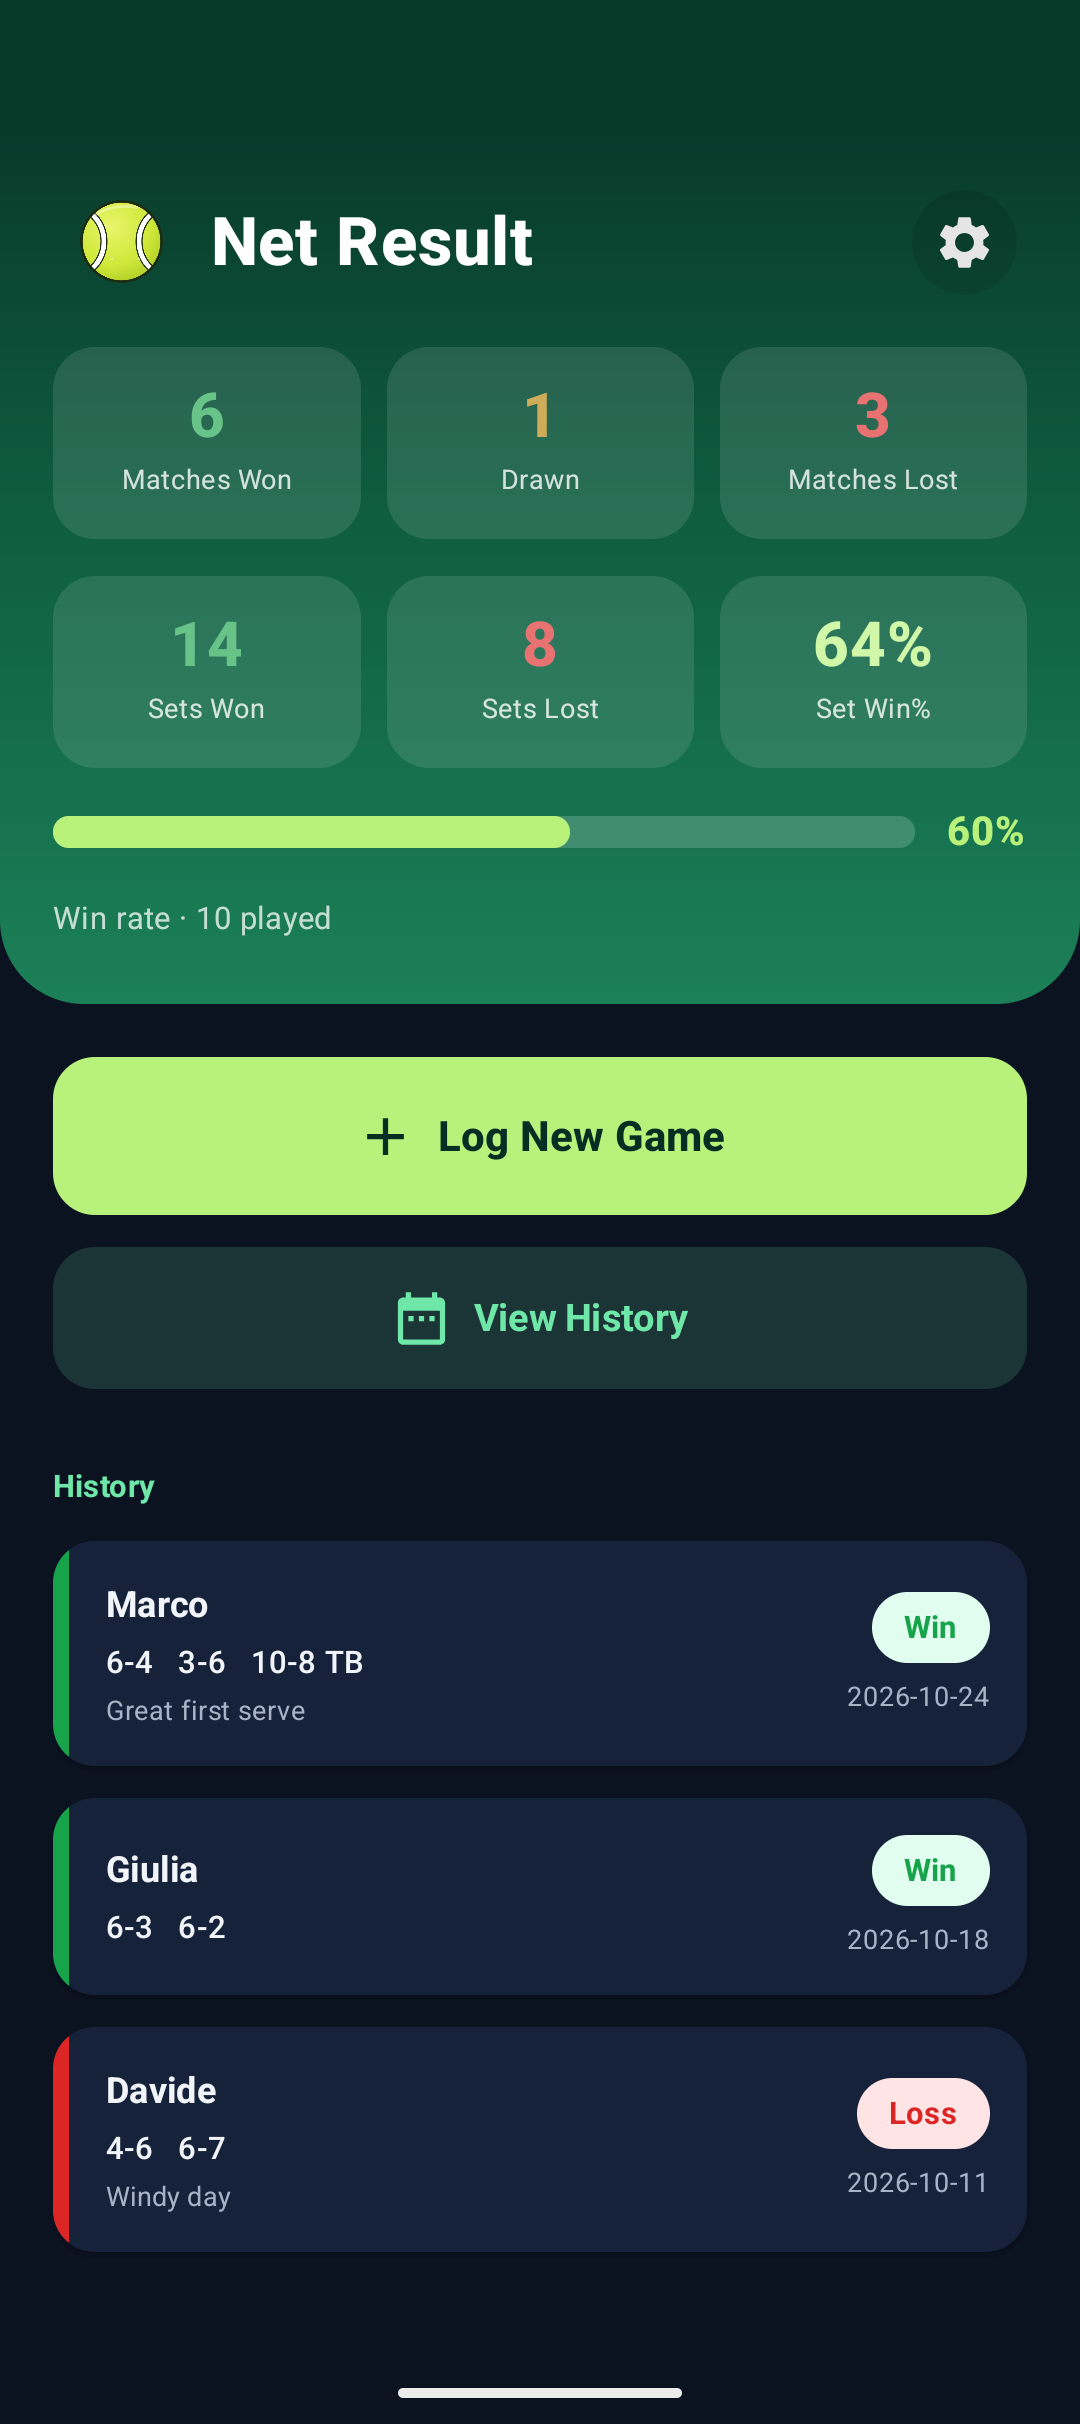
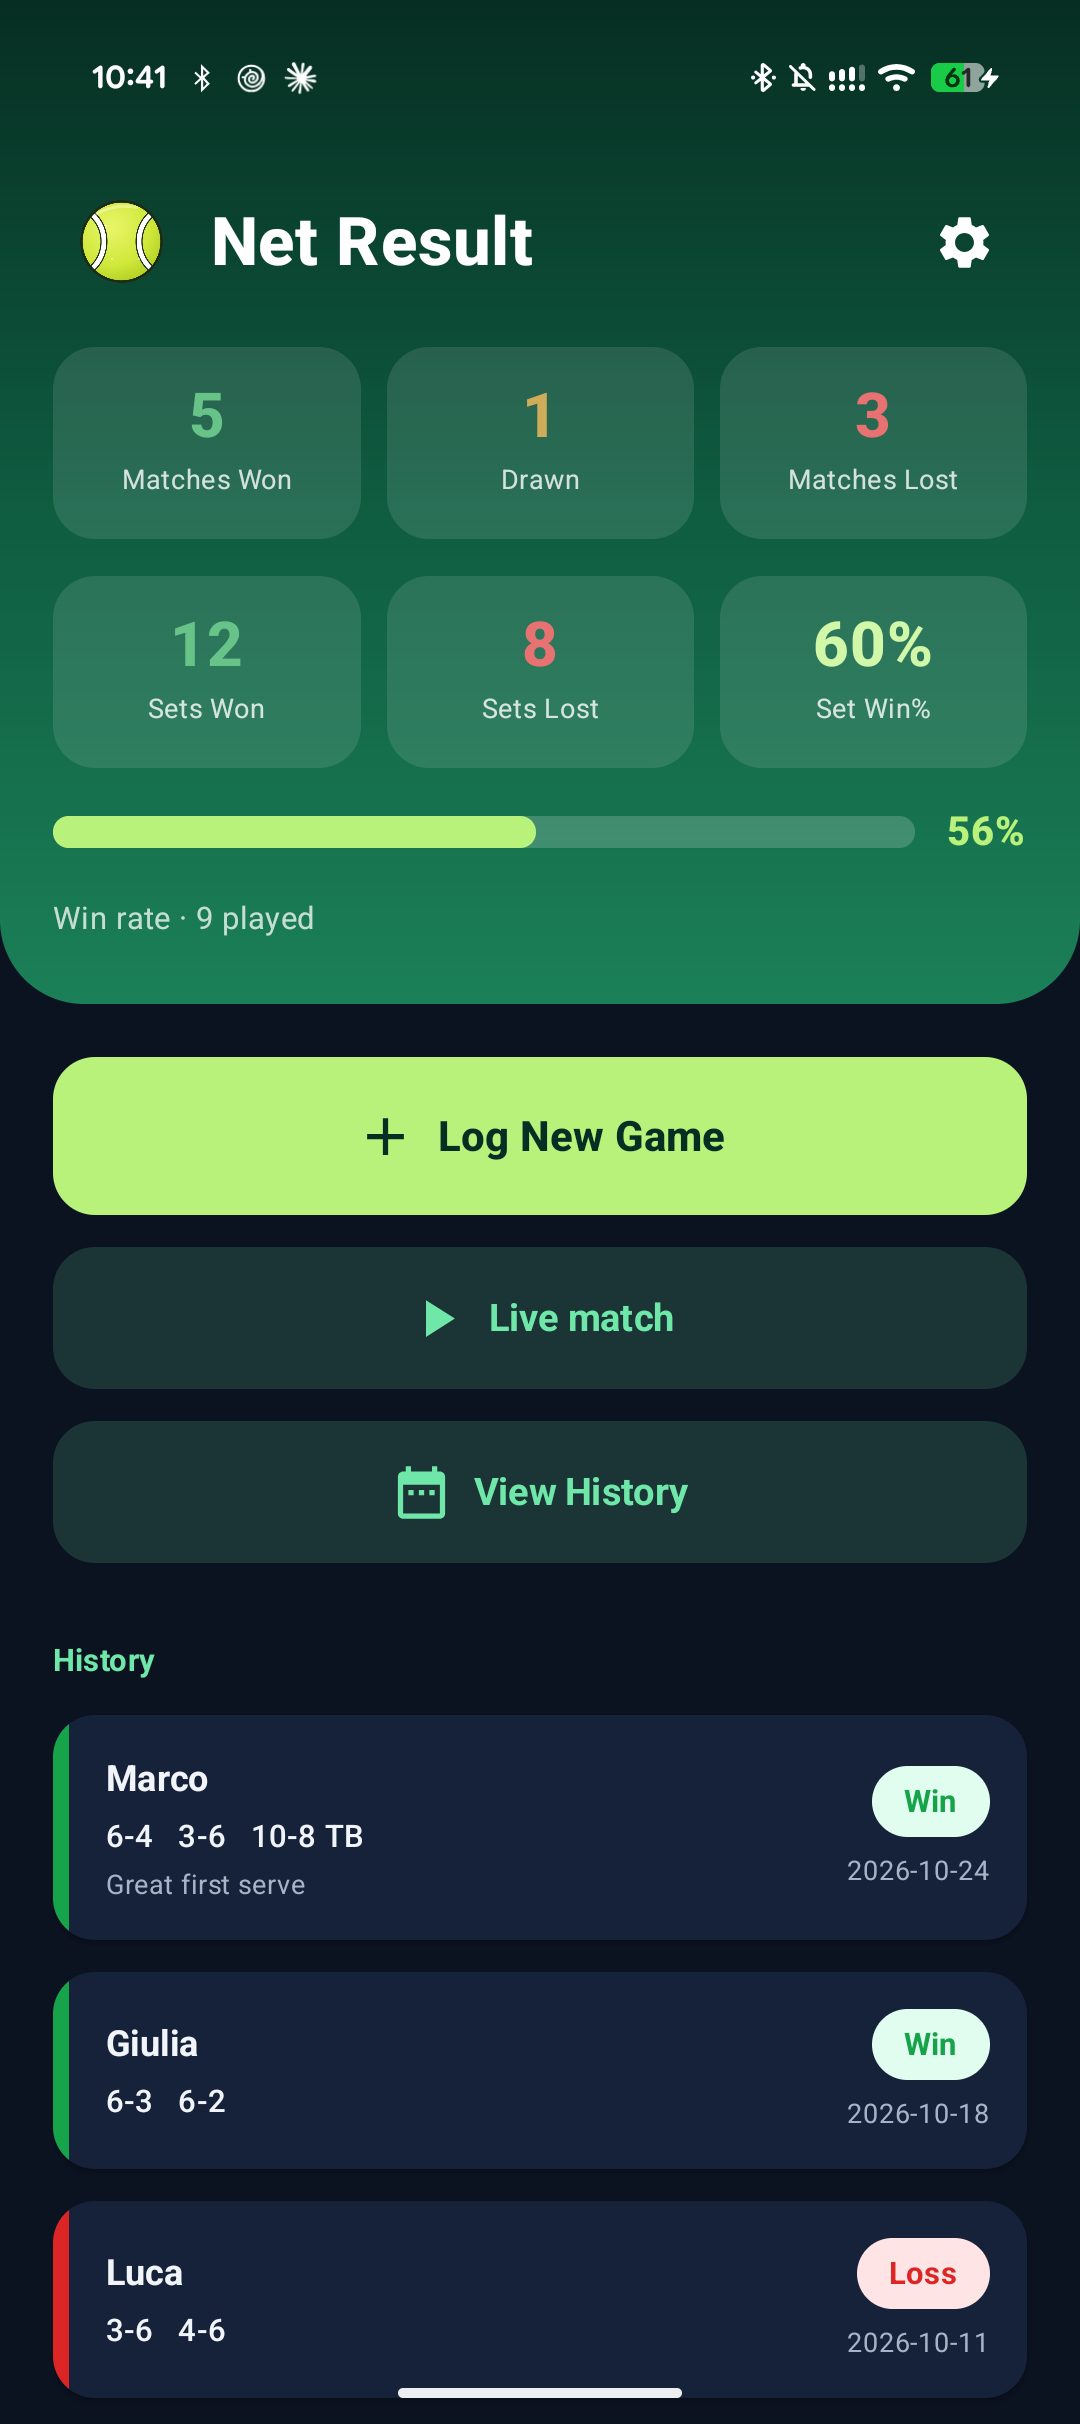
Document live match scoring and the Wear OS app in README
Add a live scoring section and watch install instructions, with new live and watch screenshots and refreshed existing ones. Request READ_HEART_RATE on the watch for Wear OS 6, where it replaces BODY_SENSORS, and log when the exercise fails to start.

diff --git a/kotlin/wear/src/main/java/org/comichao/netresult/wear/MainActivity.kt b/kotlin/wear/src/main/java/org/comichao/netresult/wear/MainActivity.kt
@@ -22,6 +22,10 @@ import androidx.wear.compose.material.*
 import kotlinx.coroutines.delay
 import org.comichao.netresult.LiveMatch
 
+/** Vitals need heart rate (BODY_SENSORS before Wear OS 6, READ_HEART_RATE from it) and activity recognition. */
+private val sensorPermissions = arrayOf(Manifest.permission.BODY_SENSORS, Manifest.permission.ACTIVITY_RECOGNITION,
+    "android.permission.health.READ_HEART_RATE")
+
 private val Ball = Color(0xFFD5E83A)
 private val Sky = Color(0xFF35B3EE)
 
@@ -66,13 +70,13 @@ private fun HomeScreen(vm: WatchViewModel) {
     val permissions = rememberLauncherForActivityResult(ActivityResultContracts.RequestMultiplePermissions()) {
         if (pending == Mode.Match && live != null) vm.join() else vm.start(pending)   // scoring works even if the sensors were refused
     }
-    fun begin(mode: Mode) { pending = mode; permissions.launch(arrayOf(Manifest.permission.BODY_SENSORS, Manifest.permission.ACTIVITY_RECOGNITION)) }
+    fun begin(mode: Mode) { pending = mode; permissions.launch(sensorPermissions) }
 
     Column(Modifier.fillMaxSize().padding(horizontal = 20.dp), verticalArrangement = Arrangement.Center, horizontalAlignment = Alignment.CenterHorizontally) {
         live?.let { l ->
             Chip(label = { Text("Join match", fontWeight = FontWeight.Bold) },
                 secondaryLabel = { Text("${l.match.pointLabel(true)}:${l.match.pointLabel(false)} · ${l.match.gamesMe}-${l.match.gamesOpp}") },
-                onClick = { permissions.launch(arrayOf(Manifest.permission.BODY_SENSORS, Manifest.permission.ACTIVITY_RECOGNITION)); pending = Mode.Match },
+                onClick = { permissions.launch(sensorPermissions); pending = Mode.Match },
                 modifier = Modifier.fillMaxWidth(), colors = ChipDefaults.primaryChipColors())
             Spacer(Modifier.height(6.dp))
         }

diff --git a/kotlin/wear/src/main/java/org/comichao/netresult/wear/Vitals.kt b/kotlin/wear/src/main/java/org/comichao/netresult/wear/Vitals.kt
@@ -1,6 +1,7 @@
 package org.comichao.netresult.wear
 
 import android.content.Context
+import android.util.Log
 import androidx.health.services.client.ExerciseUpdateCallback
 import androidx.health.services.client.HealthServices
 import androidx.health.services.client.data.Availability
@@ -37,7 +38,7 @@ class Vitals(context: Context, private val onHeartRate: (Int) -> Unit, private v
                 .setIsGpsEnabled(false)
                 .build()
         ).await()
-    }.isSuccess
+    }.onFailure { Log.w("Vitals", "Could not start the exercise: $it") }.isSuccess
 
     suspend fun stop() {
         runCatching { client.endExerciseAsync().await() }

diff --git a/README.md b/README.md
@@ -17,8 +17,8 @@
 </p>
 
 Net Result is a simple, fast tennis match tracker. Log every match you play, watch your win
-rate over time and see how you do against each opponent. No account, no ads, no internet
-connection needed.
+rate over time and see how you do against each opponent, and score the match live from your phone or your watch.
+No account, no ads, no internet connection needed.
 
 ## Install on your phone
 
@@ -32,6 +32,21 @@ You need Android 7.0 or newer. The app isn't on the Play Store, so you install i
 
 To check that a download is intact, download `SHA256SUMS` from the same release and run
 `sha256sum -c SHA256SUMS` in the folder with the files.
+
+### The watch app
+
+The watch app is a separate file in the same release, `netresult-wear-<version>-release.apk`, for Wear OS 3 or newer.
+Watches have no browser, so you install it from a computer with
+[adb](https://developer.android.com/tools/adb) after turning on **Developer options > ADB debugging** (and
+**Wireless debugging**) on the watch:
+
+```bash
+adb connect <watch-ip>:<port>        # shown on the watch under Wireless debugging
+adb install netresult-wear-<version>-release.apk
+```
+
+Keep the phone and watch apps on the same version. The first time you start a match the watch asks for permission
+to read your heart rate and activity.
 
 ### Updating
 
@@ -47,16 +62,45 @@ the file. After installing the new version use **Settings > Import data > CSV**.
   and add a note if you like. Win, draw or loss is worked out for you.
 - **Tie-breaks.** Played a match tie-break instead of a third set (e.g. 10-8)? Tap **TB** on that
   set. It still counts as a set won or lost.
-- **Score a match live.** Tap **Live match**, pick your opponent and tap who won each point. Tennis scoring
-  (deuce, advantage, tie-break at 6-6, best of three) is handled for you, the screen stays on, and **Undo** fixes
-  a mis-tap. The finished match is saved to your history, and optionally recorded in Health Connect as a tennis
-  session that Google Fit can show.
+- **Score a match live, on your phone or your watch.** Tap who won each point and the app keeps the tennis score
+  (see [Live scoring](#live-scoring-on-your-phone-and-your-watch)).
 - **See how you're doing.** The home screen shows matches won, drawn and lost, sets won and
   lost, your set win percentage and your overall win rate, plus your latest matches.
 - **Browse your history.** Filter by opponent to see how a rivalry is going, or group matches
   by opponent. The summary at the top follows your filter.
 - **Fix mistakes.** Tap any match to change the scores, opponent, date or notes, or delete it.
 - **Don't lose a half-finished entry.** Save a draft and pick it up later from the home screen.
+
+## Live scoring on your phone and your watch
+
+<p align="center">
+  <img src="docs/screenshots/live.png" alt="Live match on the phone" width="230">
+</p>
+
+Tap **Live match**, pick your opponent and tap **Point: me** or **Point: <opponent>** after every point. The app
+knows tennis: 15, 30, 40, deuce and advantage, a tie-break at 6-6, best of three sets. **Undo** fixes a mis-tap.
+The screen stays on while you play, and the match is saved to your history when you finish (or finish early, and
+the score so far is kept).
+
+### On your watch (Wear OS)
+
+<p align="center">
+  <img src="docs/screenshots/watch.png" alt="Net Result on a Wear OS watch: joining a match and scoring it" width="560">
+</p>
+
+Install the watch app too (see below) and the two stay in step: a point scored on the watch shows up on the phone
+and the other way round, Undo included. Start a match on either one and the other offers **Join match**. Finish it
+on either, and it is saved once.
+
+- **Match** scores the game and records a tennis workout with your heart rate and calories.
+- **Warm-up** records the same vitals with no score, for the knock-up before a match.
+- If the phone is out of range when you finish, the watch keeps the match and sends it the next time you open the watch app.
+- Opponent names are typed on the phone. A match started on the watch is saved as "Opponent"; tap it in History to
+  rename it.
+
+To see the workout in **Google Fit**, open **Settings > Health Connect > Allow** on the phone once. Sessions are
+written to Health Connect (the replacement for the Google Fit API), and Google Fit and other fitness apps read them
+from there. Nothing is sent anywhere else.
 
 ## Make it yours
 
@@ -78,7 +122,8 @@ from the drop-down in Settings.
 ## Your data stays yours
 
 Everything is stored privately on your phone. Nothing is uploaded, there is no tracking and the
-app never asks for access to your files: backups use Android's own file picker.
+app never asks for access to your files: backups use Android's own file picker. The phone and watch talk to each
+other directly over Bluetooth, and workouts go to Health Connect on your phone only if you allow it.
 
 - **Export** all your matches to a **CSV** (opens in Excel or Google Sheets) or **JSON** file.
 - **Import** a file on a new phone, or to merge in matches from somewhere else. Matches that
